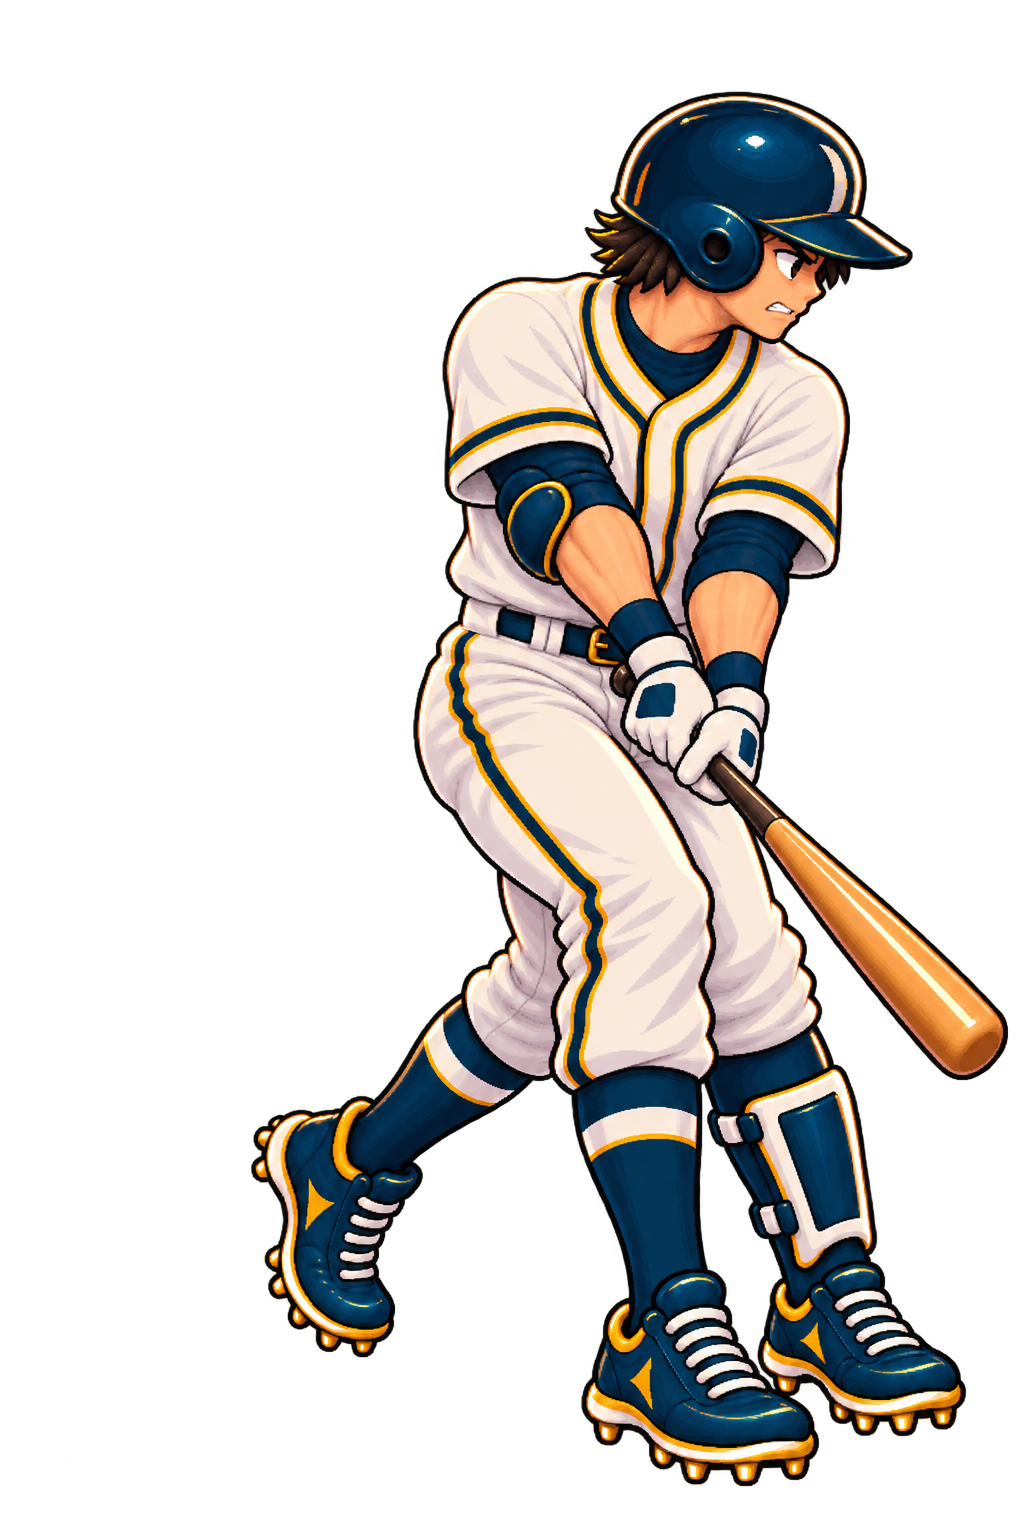
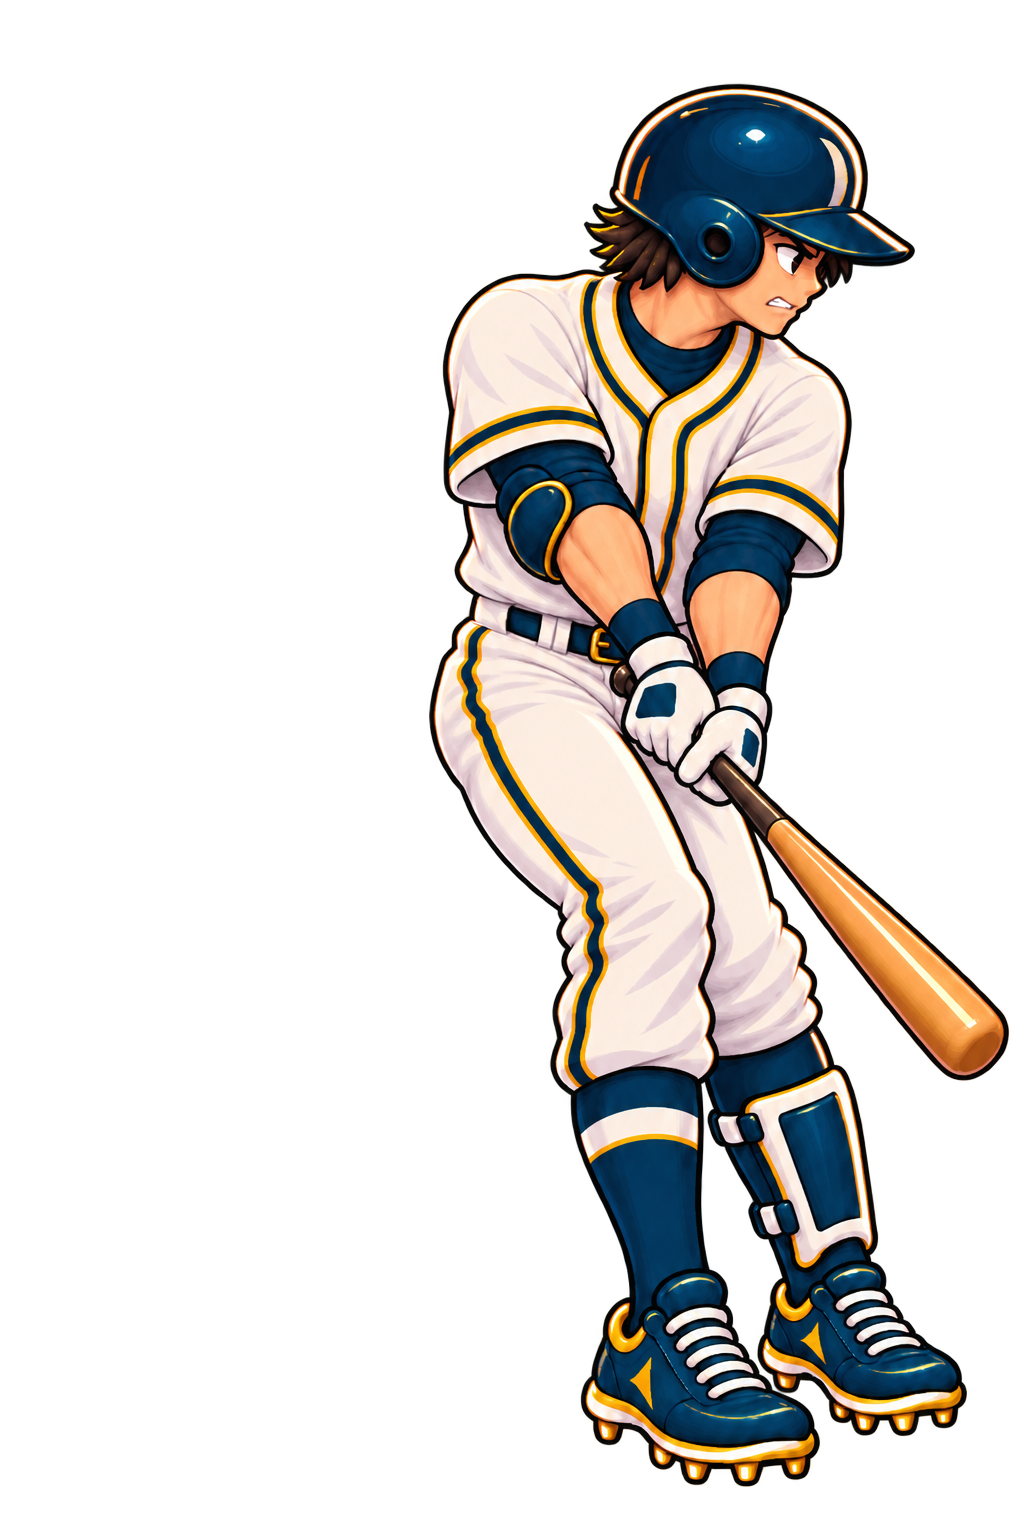
fix(batter): remove duplicate leg from miss pose

diff --git a/assets/production-art/battle-portrait-v15/README.md b/assets/production-art/battle-portrait-v15/README.md
@@ -37,4 +37,4 @@
 
 - [MLB 심판캠 타격 영상](https://www.mlb.com/video/shohei-ohtani-s-hr-through-the-eyes-of-ump-cam)의 준비·스윙 구간을 화면에서 확인했다. 카메라 가까운 타자가 크게 보이고 두 손과 배트가 전경을 통과한다는 구도만 참고했으며, 영상 프레임을 에셋에 복사하지 않았다.
 - 기존 #9 외형을 유지한 새 포즈를 `batter-miss-recovery.png`에 보존했다. 원본은 1024×1536 RGBA이고, 128 초과 알파의 발끝을 1527px 공통 기준선에 맞춰 41px 내렸다. `scripts/build-batter-miss-recovery.py`가 두 시트의 빈 여덟 번째 칸을 재생성한다.
-- V10 헛스윙 결과에서만 이 포즈를 보여준다. 안타의 contact·finish 시퀀스와 전투 판정은 그대로다. 412×915·375×667 DOM 대체 렌더러에서 배트·몸통·앞발 크롭과 오류 없음을 확인했다. 실제 Pixi 재생의 연속 동작 및 10화면 품질 판정은 별도 검수가 남는다.
+- V10 헛스윙 결과에서만 이 포즈를 보여준다. 안타의 contact·finish 시퀀스와 전투 판정은 그대로다. 생성 초안의 여분 다리·신발을 발견해 원본을 두 다리·두 신발로 다시 제작하고 시트를 갱신했다. 수정본의 게임 화면, 실제 Pixi 재생의 연속 동작 및 10화면 품질 판정은 별도 검수가 남는다.
